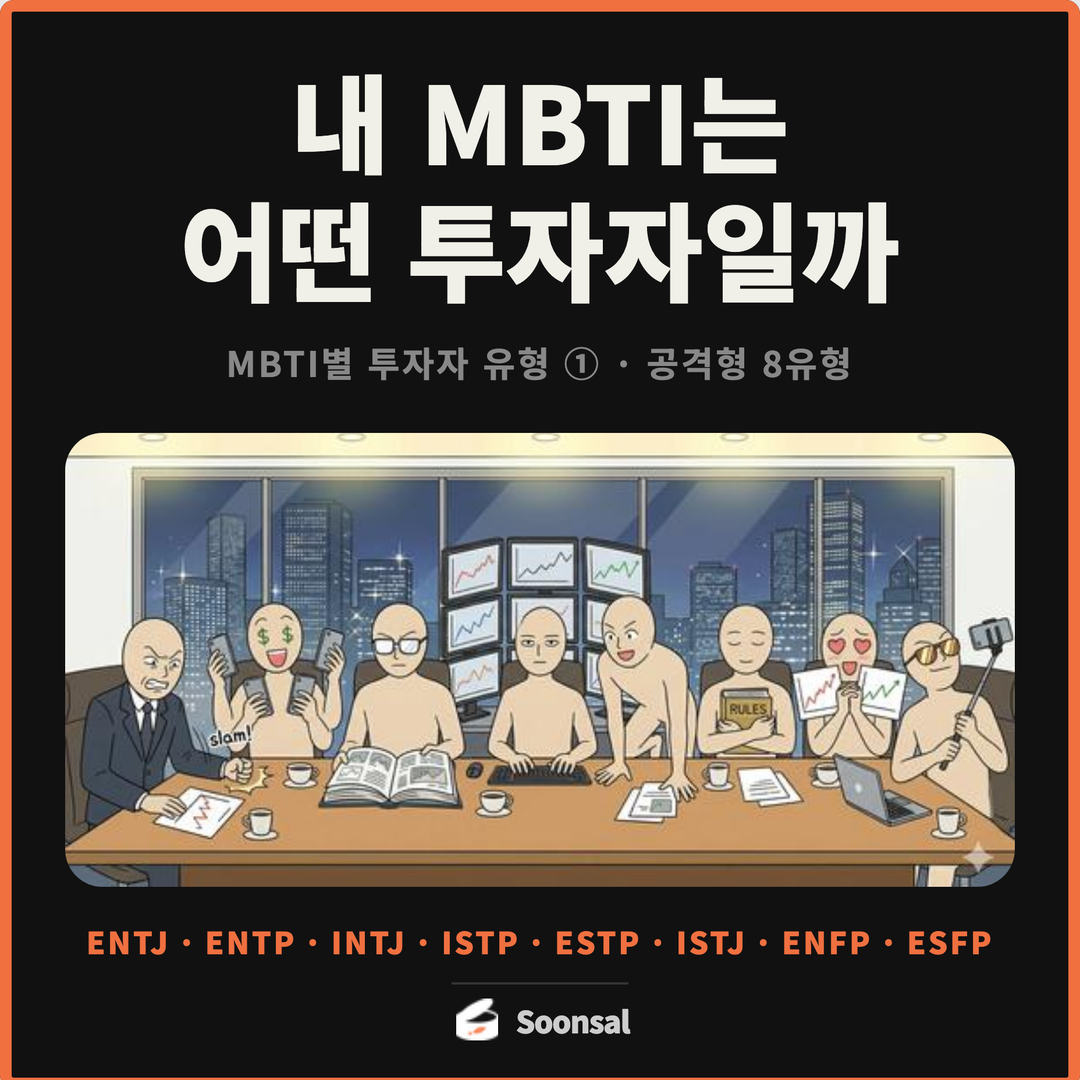
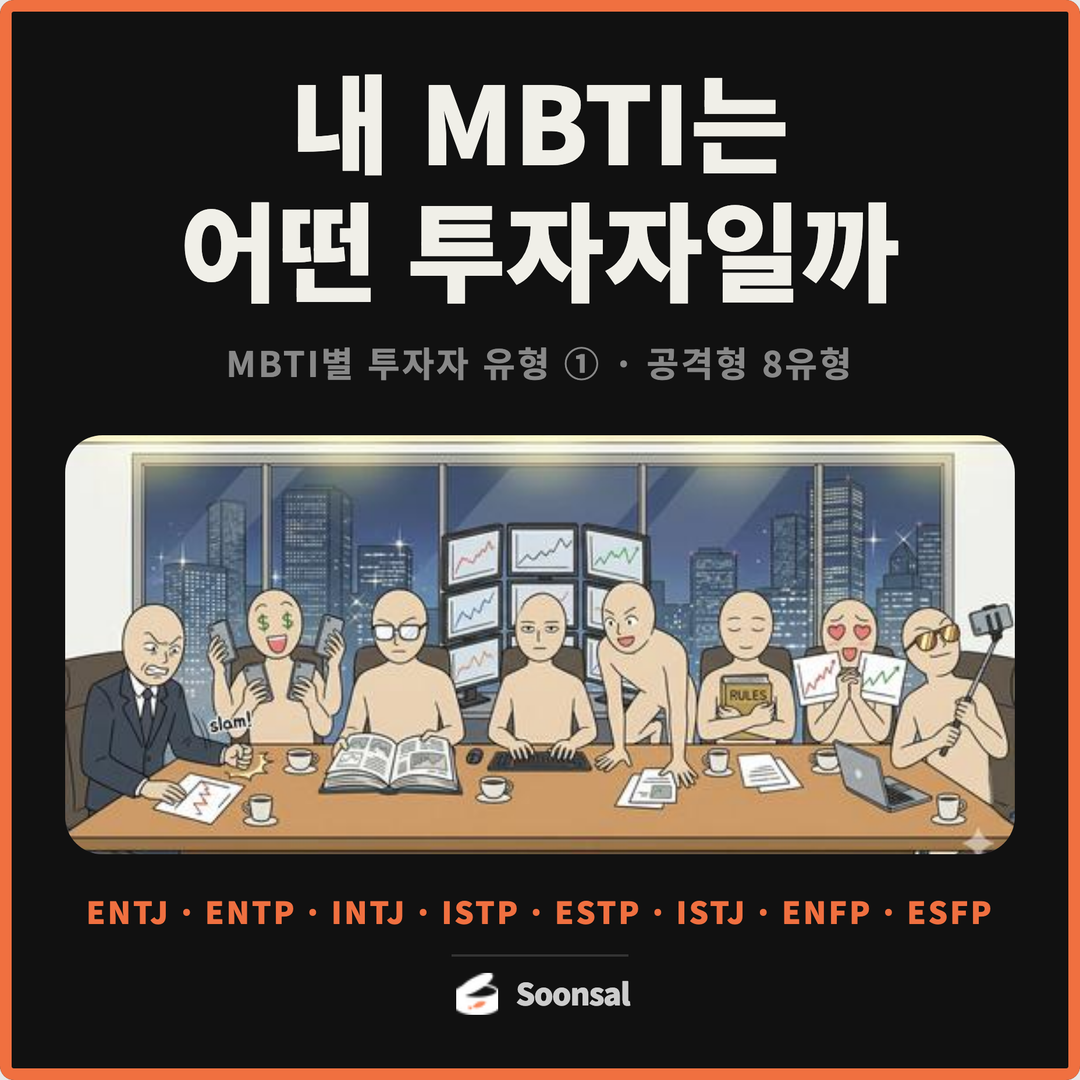
Add 순살카드뉴스 0412

Changed region(s): [[0.0, 0.3972, 1.0, 1.0]]

diff --git a/cardnews/2026/0412.html b/cardnews/2026/0412.html
@@ -70,10 +70,10 @@
 <div style="font-size:11px; color:#aaa; margin-top:-20px;">* 투자 행동 패턴 기반 추정 · 공식 검증된 MBTI 아님</div>
 
 <!-- ═══ CARD 1 — COVER ═══ -->
-<div class="card" style="background:#111; box-shadow:inset 0 0 0 5px #F07040; padding:24px 20px 20px;">
+<div class="card" style="background:#111; box-shadow:inset 0 0 0 5px #F07040; padding:24px 20px 28px;">
   <div class="top-text cover-title" style="font-size:42px; color:#f0efe8; line-height:1.2; margin-top:0;">내 MBTI는<br>어떤 투자자일까</div>
   <div style="font-size:15px; font-weight:700; color:#888; letter-spacing:1px; margin-top:2px;">MBTI별 투자자 유형 ① · 공격형 8유형</div>
-  <div class="illust" style="width:calc(100% - 16px); max-height:195px; margin:12px auto 0; border-radius:16px; overflow:hidden; flex-shrink:0;">
+  <div class="illust" style="width:calc(100% - 16px); max-height:180px; margin:12px auto 0; border-radius:16px; overflow:hidden; flex-shrink:0;">
[1 lines of base64/hex data omitted]
   </div>
   <div style="font-size:13px; color:#F07040; font-weight:900; margin-top:6px; letter-spacing:1px;">ENTJ · ENTP · INTJ · ISTP · ESTP · ISTJ · ENFP · ESFP</div>
